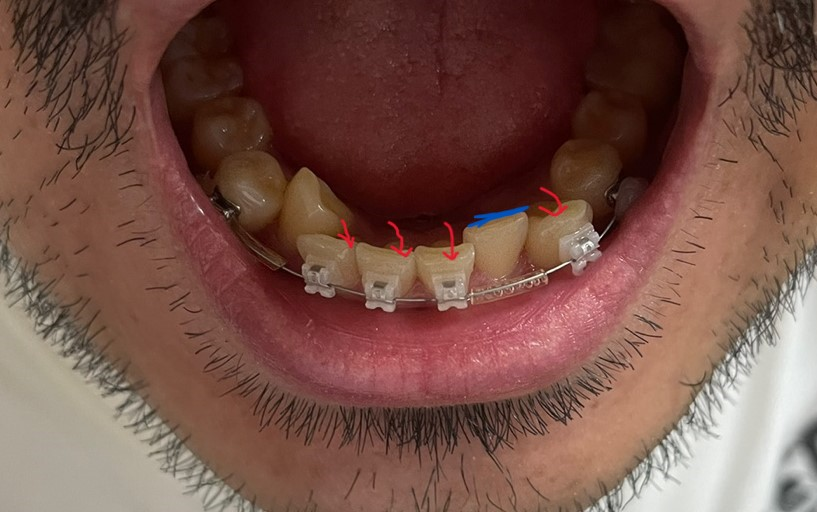
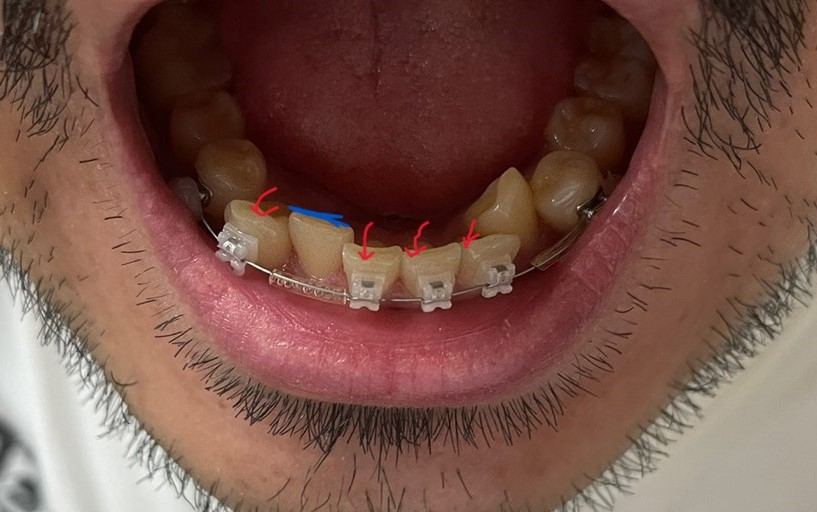
1. add orthodontics page

diff --git a/assets/css/style.scss b/assets/css/style.scss
@@ -23,3 +23,4 @@
 
 // custom
 @import "fbutton";
+@import "hdiv";

diff --git a/assets/css/hdiv.scss b/assets/css/hdiv.scss
@@ -1,0 +1,4 @@
+.hdiv-cont {
+  display: flex;
+
+}

diff --git a/content/_index.md b/content/_index.md
@@ -12,40 +12,39 @@ date: "2023-06-25"
 
 {{< space style="height: 30px;" >}}
 
-## Learning UE5
+## Main language
 
-~~~mermaid
-gantt
-    title Learning UE5
-    dateFormat YY-MM-DD
-    section Basic
-        GameMath: b1, 23-07-20, 2w
-    section Lecture in YouTube
-        CityBuilders: l1, after b1, 2w
-        RTSGames: after l1, 2w
-~~~
+### GO
 
-* 기초
-    1. 이득우의 게임수학 책 1독  
-       {{< space style="height: 20px;" >}}
-* 유튜브 강의
-    1. City Builders: Blueprint 기본으로 진행하나, C++ 코드로 작성하는 법을 공부하면서 진행한다
-    2. RTS Games: 강의는 찾았지만, 아직 내용 파악은 전무. 추후 개발일지 업데이트 예정
+> 주력 언어. 회사에서 주력으로 사용하고 있다. 단순화한 문법형식과 명시적 포인터 정의 등 기초에 충실하면서 속도가 빠른 프로그램 개발을 쉽게 할 수 있어, 개인적으로 제일 좋아하는 언어이다.
+
+### Typescript(TS, JS)
+
+> 프론트, 백엔드 등 광범위하고 범용적인 프로그래밍 언어. 비선호 언어이지만 개발에 필요에 의해서 한다. 고급 프로그래밍으로 접근시 진입장벽이 너무 높다. (리엑트, 앵귤러 등)
+
+### C++ (17, 20)
+
+> Unreal Engine 사용을 위한 언어. 저수준언어라서 제일 좋아한다. 최근 공부하기 시작했고, 조금 더 익숙해지면 주력으로 쓰고 싶다.
+
+
 
 {{< space style="height: 40px;" >}}
-    
----
 
-## Backend Utils
 
-### Mango
+## Projects
 
-* MongoDriver Utilities
+* 개발, 사용 중인 개인 개발 라이브러리
 
-### GoSQL
-
-* MySQL ORM Library
+| project_nm       | content                                  | repository_link                                                     |
+|------------------|------------------------------------------|---------------------------------------------------------------------|
+| mango            | official mongo driver utility            | [mango](https://github.com/d3v-friends/mango)                       |
+| gosql            | mysql orm library (not working at not)   | [gosql](https://github.com/d3v-friends/gosql)                       |
+| go-pure          | pure go code for helping writing code    | [go-pure](https://github.com/d3v-friends/go-pure)                   |
+| go-grpc          | grpc code (proto) generator helper       | [go-grpc](https://github.com/d3v-friends/go-grpc)                   |
+| ms-accounts-grpc | microservice for managing account        | [ms-accounts-grpc](https://github.com/d3v-friends/ms-accounts-grpc) |
+| ms-points-grpc   | microservice for managing point          | [ms-points-grpc](https://github.com/d3v-friends/ms-points-grpc)     |
+| react-stater     | react base without CRA(create react app) | [react-starter](https://github.com/d3v-friends/react-starter)       |
 
 {{< space style="height: 40px;" >}}
-    
+
 ---

diff --git a/content/lives/orthodontics/23-10-11.md b/content/lives/orthodontics/23-10-11.md
@@ -1,0 +1,78 @@
+---
+title: "2차 방문: 아랫니 브라켓 추가"
+description: "뭔가 앞니까 빠졌다니까 슬퍼..."
+author: "Ciao Lee"
+date: "2023-10-11"
+showFullContent: false
+readingTime: false
+hideComments: false
+cover: ""
+keywords:
+  - "orthodontics"
+tags:
+  - "orthodontics"
+---
+
+### 2차 방문 보고서
+
+{{< image src="/img/orthodontics/231011-3.png"
+alt="orthodontics/231011-3"
+position="left"
+style="" >}}
+
+{{< space style="height: 40px;" >}}
+
+---
+
+### 발치가 좀 마음에 걸린다
+
+* 발치한 12번 치아가 아직 덜 아물어서 윗니 브라켓은 다음 회차에 붙히기로 했다.
+* 교정 시작한지 이제 약 1달 정도 지났는데.. 아무래도 앞니가 빠졌다는 것은 마음에 많이 걸린다.
+* 혹시 임플란트 등으로 복구 가능할지 다음 방문때 물어봐야 겠다.
+
+{{< space style="height: 40px;" >}}
+
+---
+
+### 아랫니 브라켓 추가
+
+{{< image src="/img/orthodontics/231011-1.jpg"
+alt="orthodontics/231011-1"
+position="left"
+style="" >}}
+
+* 1차 방문 때, 붙히지 않았던 32번 치아와 함께, 35번, 45번, 46번 에 브라켓 추가
+    * 클리피시로 진행했는데 소구치(작은 어금니 5, 6번)부터 (5번 치아) 이후에는 금속 브라켓을 붙히는데 이유가 있을까?
+    * 다른분들은 대구치(어금니 7번, 8번) 에만 금속 브라켓으로 하시던데, 흐음. 나중에 물어봐야겠다.
+
+{{< space style="height: 20px;" >}}
+
+* 36번 대구치의 경우 아무래도 크라운 치료를 받아가지고 브라켓을 추가하지 않은거 같다.
+    * 1일정도 지나고, 안붙혀주신게 선생님의 생각이었던거 처럼 생각이 들었다.
+    * 오른쪽 46번에 붙힌 브라켓이 상당이 음식물을 씹을때 치통이 생겼다. 아무래도 교정철사가 잡아 당기면서 생기는 증상 같다.
+    * 반대편까지 브라켓 붙혀주셨으면 양쪽으로 너무 아파서 밥을 못먹엇을것 같다.
+
+{{< space style="height: 40px;" >}}
+
+---
+
+### 생각보다 치아가 많이 움직였다!!
+
+* 23.09.22 일
+  {{< image src="/img/orthodontics/230922-1.jpg"
+  alt="orthodontics/230922-1"
+  position="left"
+  style="" >}}
+
+* 23.10.14 일 (브라켓 붙힌후 3일 뒤)
+  {{< image src="/img/orthodontics/231011-2.jpg"
+  alt="orthodontics/231011-1"
+  position="left"
+  style="" >}}
+
+* 32번 치아가 3일만에 엄청 앞으로 이동해서 라인을 맞추려고 하고 있다.
+* 브라켓 부착후 3일동안 치통이 엄청 심했는데.. 이게 다 이동하려고 했었던 것 인가
+* 꽤나 아랫니 전체가 욱신하고, 신경 쓰일정도로 간질거리면서, 만지면 찡~ 하는 전기처럼 아팠다.
+* 교정전에 이런 통증에 대해서는 이야기 많이 못들었는데... 이렇게 아플꺼면 하지 말껄.. 생각도 들었다.
+
+

diff --git a/content/projects/_index.md b/content/projects/_index.md
@@ -2,28 +2,16 @@
 title: "Projects"
 ---
 
-## Personal projects
+## Projects
 
-{{< image src="/img/banner/mango.png"
-alt="Mango"
-position="left"
-style="border-radius: 8px;" >}}
+* 개발, 사용 중인 개인 개발 라이브러리
 
-## [Mango](/projects/mango.html)
-
-* MongoDB 에서 다중 컬랙션 트렌젝션 관리
-* 히스토리 방식 롤백 지원
-* 기타 몽고 DB 관련 유틸리티
-
----
-
-
-{{< image 
-src="/img/banner/gosql.png" 
-alt="GoSQL"
-position="left" 
-style="border-radius: 8px;" >}}
-
-## [GoSQL](/projects/gosql.html)
-
-https://docs.aws.amazon.com/ko_kr/serverless-application-model/latest/developerguide/what-is-sam.html
+| project_nm       | content                                  | repository_link                                                     |
+|------------------|------------------------------------------|---------------------------------------------------------------------|
+| mango            | official mongo driver utility            | [mango](https://github.com/d3v-friends/mango)                       |
+| gosql            | mysql orm library (not working at not)   | [gosql](https://github.com/d3v-friends/gosql)                       |
+| go-pure          | pure go code for helping writing code    | [go-pure](https://github.com/d3v-friends/go-pure)                   |
+| go-grpc          | grpc code (proto) generator helper       | [go-grpc](https://github.com/d3v-friends/go-grpc)                   |
+| ms-accounts-grpc | microservice for managing account        | [ms-accounts-grpc](https://github.com/d3v-friends/ms-accounts-grpc) |
+| ms-points-grpc   | microservice for managing point          | [ms-points-grpc](https://github.com/d3v-friends/ms-points-grpc)     |
+| react-stater     | react base without CRA(create react app) | [react-starter](https://github.com/d3v-friends/react-starter)       |

diff --git a/content/ue5/able-project/_index.md b/content/ue5/able-project/_index.md
@@ -1,0 +1,32 @@
+---
+title: "Able Project"
+---
+
+# Able project
+
+* 간단한 탑뷰의 던전탐험 판타지 모바일 게임
+
+## 주요 목적
+
+* 게임 전반적인 개발에 필요한 기술 탐색 및 습득
+
+## 디자인 풍
+
+* 스퀘어에닉스게임 (2D-HD) 스타일의 픽셀 풍 3d
+    * Triangle strategy
+      {{< space style="height: 10px;" >}}
+      {{< image src="/img/ue5/able-project/triangle_strategy.png"
+      alt="ue5/able-project/triangle_strategy"
+      position="left"
+      style="" >}}
+
+
+
+{{< space style="height: 40px;" >}} 
+
+---
+      
+## 주요 개발 기술 목록
+
+[x] 날씨 변화 및 
+

diff --git a/content/lives/orthodontics/23-09-20.md b/content/lives/orthodontics/23-09-20.md
@@ -1,6 +1,6 @@
 ---
-title: "교정치료 시작, 그리고 맹구없다!"
-description: "공포의 시작. 띠리리띠리리...."
+title: "1차 방문: 그리고 순식간에 발치"
+description: "정신없이 진행되는 교정 치료"
 author: "Ciao Lee"
 date: "2023-09-20"
 showFullContent: false

diff --git a/content/lives/orthodontics/23-09-22.md b/content/lives/orthodontics/23-09-22.md
@@ -1,5 +1,5 @@
 ---
-title: "2일차, 교정보다는 발치 통증이..."
+title: "1차 방문: 교정기 부착 2일째"
 description: "21세기 아이언메이든."
 author: "Ciao Lee"
 date: "2023-09-22"

diff --git a/content/lives/orthodontics/23-09-13.md b/content/lives/orthodontics/23-09-13.md
@@ -1,5 +1,5 @@
 ---
-title: "정밀진단, 그리고 긴 기다림"
+title: "0차 방문: 그리고 긴 기다림"
 description: "버킷리스트 또하나 달성"
 author: "Ciao Lee"
 date: "2023-09-13"
